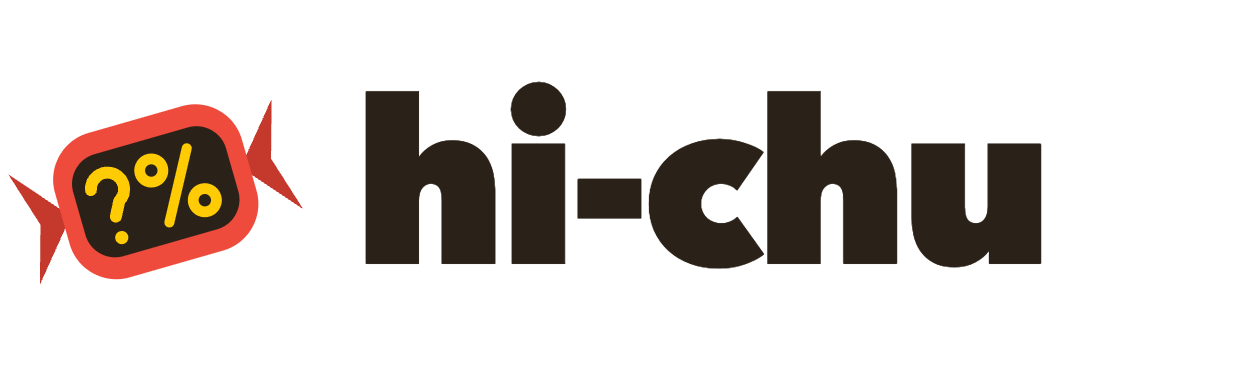
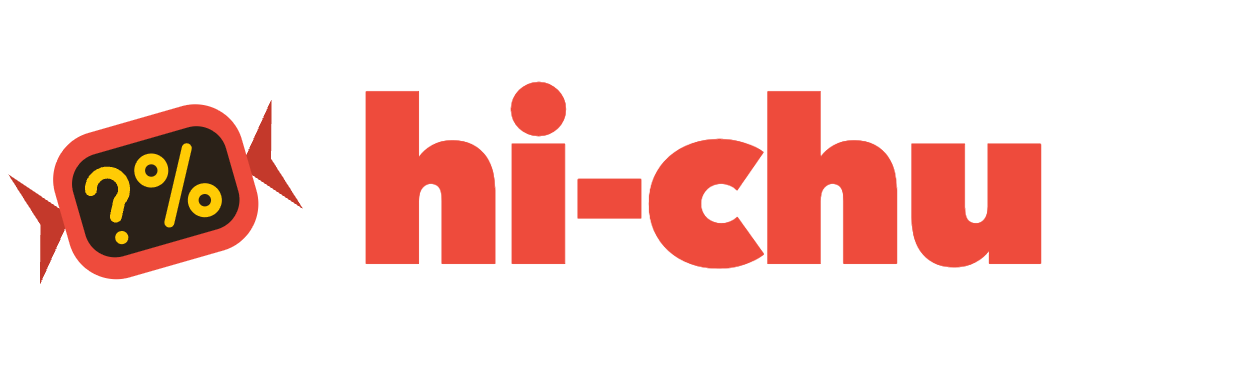
Set the wordmark in the wrapper's red, and ship one file
The name was set in the ink brown, which measures 1.20:1 against a near-black
page — invisible, not merely dim. It was readable on white at 15.8:1, and that
is why the problem hid: the lockup shipped as a light and a dark variant, so
the brown was only ever meant to meet a pale background. Any reference to the
wrong one — a PR body, a doc, a slide — got the unreadable pairing, which is
exactly what happened.

The wrapper's own red fixes both halves at once. At 3.68:1 on white and 5.14:1
on #0d1117 it clears the 3:1 large-text bar on either ground, so there is no
longer a second variant to pick wrongly. That is the real repair: a light and
a dark file is a rule someone has to remember, and one file is a rule that
cannot be broken. The colour is fixed inside wordmarkSvg rather than left as a
parameter for the same reason.

It also reads better. The name now matches the wrapper exactly, so the lockup
is two statements of one colour instead of a candy beside an unrelated brown.

Changed region(s): [[0.2786, 0.2188, 0.8357, 0.7188]]

diff --git a/CLAUDE.md b/CLAUDE.md
@@ -55,7 +55,10 @@ size, because a retina asset is more pixels of a *small* icon and must stay simp
 a frame would have to be wider than the twist ends and could only crop or shrink them, and the
 scale that fits the mark to its box is COMPUTED from the geometry (`halfExtent`), never stored,
 so moving a vertex can't leave a stale number overhanging the edge. iOS is the one opaque icon,
-since it forbids an alpha channel. `node scripts/make-icons.mjs --proof` renders a sheet to
+since it forbids an alpha channel. The README lockup is deliberately ONE file rather than a
+light and a dark variant: the name is set in the wrapper's red, which clears the large-text
+contrast bar on white (3.7:1) and on a near-black page (5.1:1) alike, and one file cannot be
+paired with the wrong background. `node scripts/make-icons.mjs --proof` renders a sheet to
 `.icon-proof/` — the thresholds were chosen by looking, so looking is how to re-check them.
 **Shape of the suite, base to top.** Unit + integration tests (`npm run check`) are the
 base and middle — colocated `*.test.ts` beside each module, two tests driven by real

diff --git a/README.md b/README.md
@@ -1,8 +1,5 @@
-<picture>
-  <source media="(prefers-color-scheme: dark)" srcset="docs/brand/wordmark-dark.png">
-  <img src="docs/brand/wordmark.png" width="300"
-       alt="hi-chu — a wrapped sweet whose window reads ?%">
-</picture>
+<img src="docs/brand/wordmark.png" width="300"
+     alt="hi-chu — a wrapped sweet whose window reads ?%">
 
 *(hi-chew × pikachu)*
 
